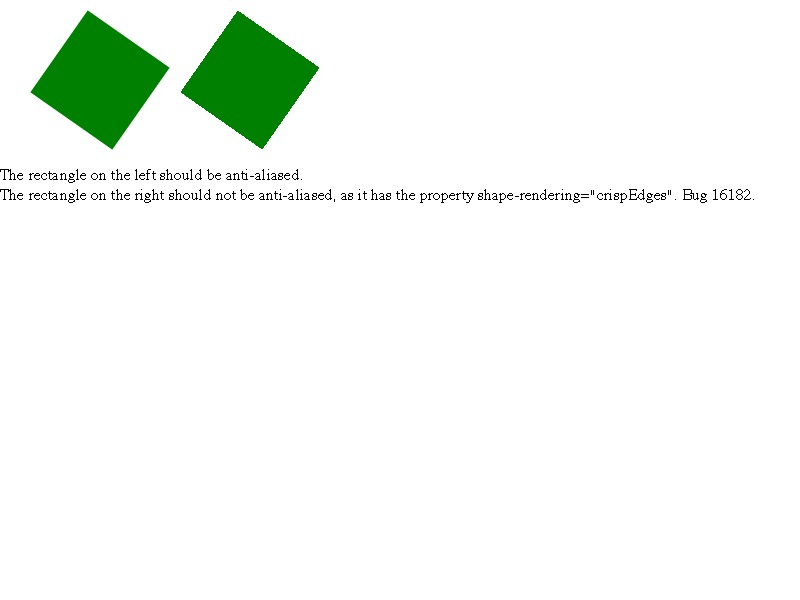
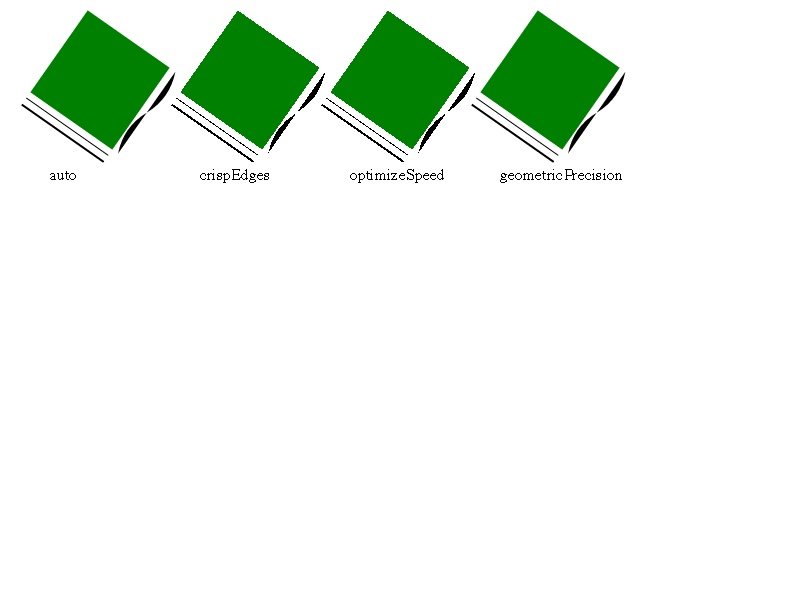
Disable antialising for shapes with shape-rendering="optimizeSpeed"
The SVG spec hints that optimizeSpeed may disable antialising[1] and
this matches Gecko's behavior. This patch disables shape anti-aliasing
when optimizeSpeed is used.

The shape rendering test has been improved to cover all shape-rendering
values, and to include both stroked lines and filled paths.

[1] https://svgwg.org/svg2-draft/single-page.html#painting-ShapeRendering

BUG=603796

Review-Url: https://codereview.chromium.org/2003493003
Cr-Original-Commit-Position: refs/heads/master@{#395272}
Cr-Mirrored-From: https://chromium.googlesource.com/chromium/src
Cr-Mirrored-Commit: e04404cc853af2b6b91744e9d6d8a15403d1d426

diff --git a/WebKit/Source/core/paint/SVGShapePainter.cpp b/WebKit/Source/core/paint/SVGShapePainter.cpp
@@ -60,7 +60,7 @@ void SVGShapePainter::paint(const PaintInfo& paintInfo)
             LayoutObjectDrawingRecorder recorder(paintContext.paintInfo().context, m_layoutSVGShape, paintContext.paintInfo().phase, boundingBox);
             const SVGComputedStyle& svgStyle = m_layoutSVGShape.style()->svgStyle();
 
-            bool shouldAntiAlias = svgStyle.shapeRendering() != SR_CRISPEDGES;
+            bool shouldAntiAlias = svgStyle.shapeRendering() != SR_CRISPEDGES && svgStyle.shapeRendering() != SR_OPTIMIZESPEED;
 
             for (int i = 0; i < 3; i++) {
                 switch (svgStyle.paintOrderType(i)) {
